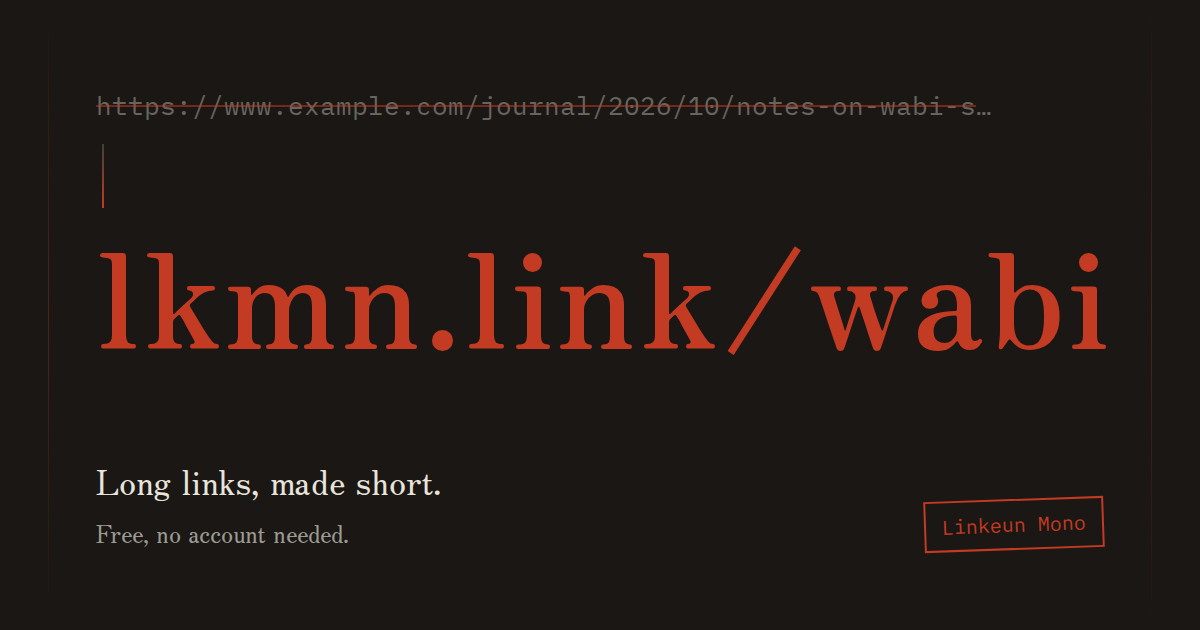
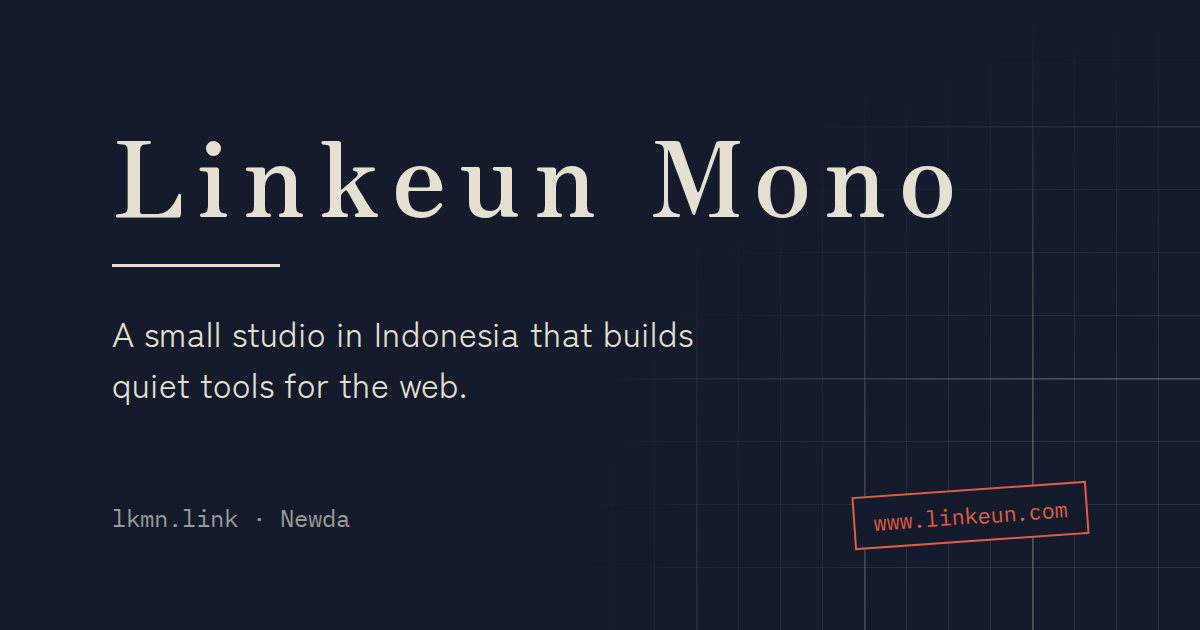
feat(seo): sitemap, /id locale URL, own share card
- sitemap.xml lists site.indexed paths in every locale; prod robots.txt points to it
- Indonesian at /id (paraglide url strategy + urlPatterns), hreflang alternates with x-default
- home title + description localized per locale
- nav/footer links localized via resolve(localizeHref())
- new linkeun.com og.png from scripts/og.html (node scripts/og.mjs)
- webmanifest description mentions Newda
- docs + CLAUDE.md updated

diff --git a/scripts/og.html b/scripts/og.html
@@ -1,0 +1,97 @@
+<!doctype html>
+<html>
+	<head>
+		<meta charset="utf-8" />
+		<link
+			href="https://fonts.googleapis.com/css2?family=Zen+Old+Mincho:wght@900&family=Zen+Kaku+Gothic+New:wght@400&family=IBM+Plex+Mono:wght@400&display=block"
+			rel="stylesheet"
+		/>
+		<style>
+			/* linkeun.com share card: kon ground, kumiko lattice in one corner, wordmark on a planed rule */
+			* {
+				margin: 0;
+				box-sizing: border-box;
+			}
+			body {
+				--bar: #e6e0d21f;
+				--frame: #e6e0d233;
+				width: 1200px;
+				height: 630px;
+				overflow: hidden;
+				position: relative;
+				background: #131b2c;
+				color: #e6e0d2;
+				font-family: 'Zen Kaku Gothic New', sans-serif;
+				padding: 120px 112px;
+			}
+			.lattice {
+				position: absolute;
+				right: 0;
+				bottom: 0;
+				width: 640px;
+				height: 630px;
+				background-image:
+					linear-gradient(var(--frame) 2px, transparent 2px),
+					linear-gradient(90deg, var(--frame) 2px, transparent 2px),
+					linear-gradient(var(--bar) 1px, transparent 1px),
+					linear-gradient(90deg, var(--bar) 1px, transparent 1px);
+				background-size:
+					168px 252px,
+					168px 252px,
+					42px 63px,
+					42px 63px;
+				background-position: right bottom;
+				mask-image: radial-gradient(ellipse at 100% 100%, #000 25%, transparent 72%);
+			}
+			h1 {
+				position: relative;
+				font-family: 'Zen Old Mincho', serif;
+				font-weight: 900;
+				font-size: 104px;
+				line-height: 1;
+				letter-spacing: 0.12em;
+			}
+			.rule {
+				width: 168px;
+				height: 3px;
+				margin-top: 40px;
+				background: #e6e0d2;
+			}
+			p {
+				position: relative;
+				margin-top: 40px;
+				font-size: 34px;
+				line-height: 1.5;
+				max-width: 18em;
+			}
+			.foot {
+				position: absolute;
+				left: 112px;
+				bottom: 96px;
+				font-family: 'IBM Plex Mono', monospace;
+				font-size: 24px;
+				color: #9a9a9a;
+			}
+			.seal {
+				position: absolute;
+				right: 112px;
+				bottom: 88px;
+				padding: 10px 18px;
+				border: 2px solid #e35d44;
+				color: #e35d44;
+				font-family: 'IBM Plex Mono', monospace;
+				font-size: 22px;
+				transform: rotate(-4deg);
+				background: #131b2c;
+			}
+		</style>
+	</head>
+	<body>
+		<div class="lattice"></div>
+		<h1>Linkeun Mono</h1>
+		<div class="rule"></div>
+		<p>A small studio in Indonesia that builds quiet tools for the web.</p>
+		<span class="foot">lkmn.link · Newda</span>
+		<span class="seal">www.linkeun.com</span>
+	</body>
+</html>

diff --git a/src/routes/+layout.ts b/src/routes/+layout.ts
@@ -1,10 +1,14 @@
 import { defineBaseMetaTags } from 'svelte-meta-tags';
-import { getLocale } from '#lib/paraglide/runtime.js';
+import { deLocalizeUrl, getLocale, locales, localizeUrl } from '#lib/paraglide/runtime.js';
 import { isProd, site } from '#lib/data/site.js';
 import type { LayoutLoad } from './$types';
 
 export const load: LayoutLoad = ({ url }) => {
 	const canonical = url.origin + url.pathname;
+	// same page in every locale (/ and /id/), x-default = base locale
+	const base = deLocalizeUrl(url);
+	base.search = base.hash = '';
+	const alt = (locale: (typeof locales)[number]) => localizeUrl(base, { locale }).href;
 	return {
 		...defineBaseMetaTags({
 			title: site.name,
@@ -12,6 +16,10 @@ export const load: LayoutLoad = ({ url }) => {
 			description: site.description,
 			keywords: [...site.keywords],
 			canonical,
+			languageAlternates: [
+				...locales.map((hrefLang) => ({ hrefLang, href: alt(hrefLang) })),
+				{ hrefLang: 'x-default', href: alt('en') }
+			],
 			robots: isProd(url) ? 'index,follow' : 'noindex,nofollow',
 			openGraph: {
 				type: 'website',

diff --git a/src/routes/home.ts b/src/routes/home.ts
@@ -6,6 +6,9 @@ const NEWDA = 'https://newda.linkeun.com';
 type Value = { h: string; p: string; proof?: { label: string; href: string } };
 
 const en = {
+	title: 'Small tools for the web',
+	description:
+		'Linkeun Mono is the studio behind lkmn.link, the free URL shortener, and Newda, a map of anime, manga and light novels.',
 	lede: 'A small studio in Indonesia that builds quiet tools for the web.',
 	products: 'Products',
 	lkmn: {
@@ -48,6 +51,9 @@ const en = {
 export const COPY: Record<'en' | 'id', typeof en> = {
 	en,
 	id: {
+		title: 'Alat web sederhana',
+		description:
+			'Linkeun Mono adalah studio di balik lkmn.link, pemendek URL gratis, dan Newda, peta anime, manga, dan light novel.',
 		lede: 'Studio kecil di Indonesia yang membuat alat web sederhana.',
 		products: 'Produk',
 		lkmn: {

diff --git a/src/lib/components/layout/Footer.svelte b/src/lib/components/layout/Footer.svelte
@@ -1,6 +1,7 @@
 <script lang="ts">
 	import { version } from '$app/env';
 	import { resolve } from '$app/paths';
+	import { localizeHref } from '#lib/paraglide/runtime.js';
 
 	let { note }: { note?: string } = $props();
 </script>
@@ -14,8 +15,8 @@
 
 <footer class="footer">
 	<nav class="footer__links" aria-label="Footer">
-		<a class="footer__link" href="{resolve('/')}#about">About</a>
-		<a class="footer__link" href="{resolve('/')}#contact">Contact</a>
+		<a class="footer__link" href="{resolve(localizeHref('/') as '/')}#about">About</a>
+		<a class="footer__link" href="{resolve(localizeHref('/') as '/')}#contact">Contact</a>
 	</nav>
 	<!-- colophon: build commit as a small seal -->
 	<p class="footer__colophon">

diff --git a/vite.config.ts b/vite.config.ts
@@ -45,7 +45,26 @@ export default defineConfig({
 		paraglideVitePlugin({
 			project: './project.inlang',
 			outdir: './src/lib/paraglide',
-			emitTsDeclarations: true
+			emitTsDeclarations: true,
+			// /id/ is its own crawlable URL (hreflang); en stays at /. cookie only for paths without a prefix
+			strategy: ['url', 'cookie', 'baseLocale'],
+			// no trailing slash on /id: kit 308s /id/ to /id
+			urlPatterns: [
+				{
+					pattern: '/',
+					localized: [
+						['id', '/id'],
+						['en', '/']
+					]
+				},
+				{
+					pattern: '/:path(.*)',
+					localized: [
+						['id', '/id/:path(.*)'],
+						['en', '/:path(.*)']
+					]
+				}
+			]
 		})
 	],
 	test: {

diff --git a/src/routes/sitemap.xml/+server.ts b/src/routes/sitemap.xml/+server.ts
@@ -1,0 +1,12 @@
+import { locales, localizeUrl } from '#lib/paraglide/runtime.js';
+import { site } from '#lib/data/site.js';
+
+// ponytail: static list of public pages, every locale's URL; hreflang pairs live in the page <head>
+export const GET = ({ url }) =>
+	new Response(
+		`<?xml version="1.0" encoding="UTF-8"?>\n<urlset xmlns="http://www.sitemaps.org/schemas/sitemap/0.9">\n${site.indexed
+			.flatMap((p) => locales.map((locale) => localizeUrl(new URL(p, url.origin), { locale })))
+			.map((u) => `\t<url><loc>${u.href}</loc></url>`)
+			.join('\n')}\n</urlset>\n`,
+		{ headers: { 'content-type': 'application/xml' } }
+	);

diff --git a/src/routes/+page.ts b/src/routes/+page.ts
@@ -1,4 +1,9 @@
 import { definePageMetaTags } from 'svelte-meta-tags';
+import { getLocale } from '#lib/paraglide/runtime.js';
+import { COPY } from './home.js';
 
-// own title, else the base title (site.name) + template renders "Linkeun Mono • Linkeun Mono"
-export const load = () => definePageMetaTags({ title: 'Small tools for the web' });
+// own title, else the base title (site.name) + template renders "Linkeun Mono • Linkeun Mono"; /id gets ID title + description
+export const load = () => {
+	const { title, description } = COPY[getLocale()];
+	return definePageMetaTags({ title, description });
+};

diff --git a/src/lib/components/layout/Navbar.svelte b/src/lib/components/layout/Navbar.svelte
@@ -1,5 +1,6 @@
 <script lang="ts">
 	import { resolve } from '$app/paths';
+	import { localizeHref } from '#lib/paraglide/runtime.js';
 	import { site } from '#lib/data/site.js';
 	import ThemeToggle from './ThemeToggle.svelte';
 	import LocaleToggle from './LocaleToggle.svelte';
@@ -7,7 +8,7 @@
 </script>
 
 <header class="navbar">
-	<a href={resolve('/')} class="navbar__mark">{site.name}</a>
+	<a href={resolve(localizeHref('/') as '/')} class="navbar__mark">{site.name}</a>
 
 	<div class="navbar__end">
 		<LocaleToggle />

diff --git a/src/routes/sitemap.xml/sitemap.test.ts b/src/routes/sitemap.xml/sitemap.test.ts
@@ -1,0 +1,10 @@
+import { describe, expect, it } from 'vitest';
+import { GET } from './+server';
+
+describe('sitemap.xml', () => {
+	it('lists every indexed path in each locale', async () => {
+		const res = await GET({ url: new URL('https://www.linkeun.com/sitemap.xml') } as never);
+		const locs = [...(await res.text()).matchAll(/<loc>([^<]+)<\/loc>/g)].map((m) => m[1]);
+		expect(locs).toEqual(['https://www.linkeun.com/', 'https://www.linkeun.com/id']);
+	});
+});

diff --git a/src/routes/robots.txt/+server.ts b/src/routes/robots.txt/+server.ts
@@ -1,6 +1,9 @@
 import { isProd } from '#lib/data/site.js';
 
 export const GET = ({ url }) =>
-	new Response(isProd(url) ? 'User-agent: *\nAllow: /\n' : 'User-agent: *\nDisallow: /\n', {
-		headers: { 'content-type': 'text/plain' }
-	});
+	new Response(
+		isProd(url)
+			? `User-agent: *\nAllow: /\n\nSitemap: ${url.origin}/sitemap.xml\n`
+			: 'User-agent: *\nDisallow: /\n',
+		{ headers: { 'content-type': 'text/plain' } }
+	);

diff --git a/docs/features/content.md b/docs/features/content.md
@@ -1,15 +1,16 @@
 # Content
 
-| What                        | Where                        | Notes                                                                                 |
-| --------------------------- | ---------------------------- | ------------------------------------------------------------------------------------- |
-| Home copy (EN + ID)         | `src/routes/home.ts`         | `COPY.en` is the source; `COPY.id` must keep the same shape (typed as `typeof en`)    |
-| Product links, slip example | `src/routes/home.ts` `LINKS` |                                                                                       |
-| App switcher                | `src/lib/data/apps.ts`       | one entry per Linkeun Mono app: `name`, `what`, `href`, `mark` (short Latin monogram) |
-| Brand, description, socials | `src/lib/data/site.ts`       | also feeds meta tags, JSON-LD and the Contact socials                                 |
-| Home `<title>`              | `src/routes/+page.ts`        | rendered as `<title> • Linkeun Mono`; never set it to the brand alone (it doubles)    |
-| UI strings (toggles)        | `messages/{en,id}.json`      | Paraglide                                                                             |
+| What                        | Where                        | Notes                                                                                  |
+| --------------------------- | ---------------------------- | -------------------------------------------------------------------------------------- |
+| Home copy (EN + ID)         | `src/routes/home.ts`         | `COPY.en` is the source; `COPY.id` must keep the same shape (typed as `typeof en`)     |
+| Product links, slip example | `src/routes/home.ts` `LINKS` |                                                                                        |
+| App switcher                | `src/lib/data/apps.ts`       | one entry per Linkeun Mono app: `name`, `what`, `href`, `mark` (short Latin monogram)  |
+| Brand, description, socials | `src/lib/data/site.ts`       | also feeds meta tags, JSON-LD and the Contact socials                                  |
+| Home `<title>`, description | `COPY.*.title/description`   | set in `src/routes/+page.ts`, rendered `<title> • Linkeun Mono`; never the brand alone |
+| UI strings (toggles)        | `messages/{en,id}.json`      | Paraglide                                                                              |
+| Share card `static/og.png`  | `scripts/og.html`            | edit, then `node scripts/og.mjs` (Playwright screenshot, 1200x630)                     |
 
 - Facts in the copy (privacy claims, "No ads", retention days) mirror each app's own privacy page. Change it there, change it here.
-- English is the default. Indonesian shows only after the locale toggle sets the `PARAGLIDE_LOCALE` cookie; there is no `/id` URL.
-- Only `www.linkeun.com` is indexed (`site.prodHost`). Beta, previews and localhost get `noindex,nofollow` and `Disallow: /` in `robots.txt`.
+- English lives at `/`, Indonesian at `/id` (Paraglide `url` strategy, `urlPatterns` in `vite.config.ts`). Each page lists both in `hreflang` alternates (`x-default` = en). Internal links go through `resolve(localizeHref(...))`.
+- Only `www.linkeun.com` is indexed (`site.prodHost`). Beta, previews and localhost get `noindex,nofollow` and `Disallow: /` in `robots.txt`. Prod `robots.txt` points to `/sitemap.xml`, which lists every `site.indexed` path in each locale.
 - A new app: add it to `apps.ts` here and in every other Linkeun Mono app's switcher; add a Products entry in `home.ts` and `+page.svelte` if it should show on the home page.

diff --git a/CLAUDE.md b/CLAUDE.md
@@ -13,7 +13,7 @@
 - Never add `eslint-disable svelte/no-navigation-without-resolve`: call `resolve()` inside the component (take a typed route like `to: '/'`), not a pre-resolved `href` prop.
 - `src/lib` layout: `data/` (`site`), `utils/` (`cn`), `composables/` (`use-*.svelte.ts`, create when needed), `types/` (create when needed), `components/` (`layout/`, `ui/`). Helpers and components used by one route stay in that route folder; move to `lib/` once a second route needs them. Pure helpers live in `#lib` with unit tests beside them.
 - Types/interfaces for helpers go in `src/lib/types/` or `routes/<page>/types.ts` for route-only ones; types derived from a constant use `import type { CONST }`. Component/page `Props` stay in the `.svelte` file.
-- SEO: brand/description/keywords/publisher/JSON-LD in `src/lib/data/site.ts`; base meta in `routes/+layout.ts`, pages add `definePageMetaTags` (private pages `robots: 'noindex,nofollow'`). Only host `www.linkeun.com` is indexable (`isProd`); non-prod hosts get noindex meta + robots.txt `Disallow: /`. `site.indexed` lists public paths (for a future sitemap).
+- SEO: brand/description/keywords/publisher/JSON-LD in `src/lib/data/site.ts`; base meta in `routes/+layout.ts`, pages add `definePageMetaTags` (private pages `robots: 'noindex,nofollow'`). Only host `www.linkeun.com` is indexable (`isProd`); non-prod hosts get noindex meta + robots.txt `Disallow: /`. `site.indexed` lists public paths; `/sitemap.xml` emits each in every locale. EN at `/`, ID at `/id` (Paraglide `url` strategy + `urlPatterns` in `vite.config.ts`, hreflang in `+layout.ts`); internal links use `resolve(localizeHref(...))`. Share card: edit `scripts/og.html`, run `node scripts/og.mjs`.
 - Deploy (mirrors s-app): push to `main` → `.github/workflows/deploy-beta.yml` → `beta.linkeun.com`; prod = run `deploy-production.yml` from a `v*` tag (actor in repo var `PROD_MANAGERS`) → `www.linkeun.com` + `linkeun.com` (apex 301s to www in `hooks.server.ts`), then GitHub release via `scripts/release-notes.sh`. Changing `wrangler.jsonc` needs `pnpm gen`.
 - SvelteKit 3: `data-sveltekit-keepfocus`/`noscroll` are ignored (dev warning only); use `data-sveltekit-reset="false"` to keep focus + scroll on a GET form navigation.
 
